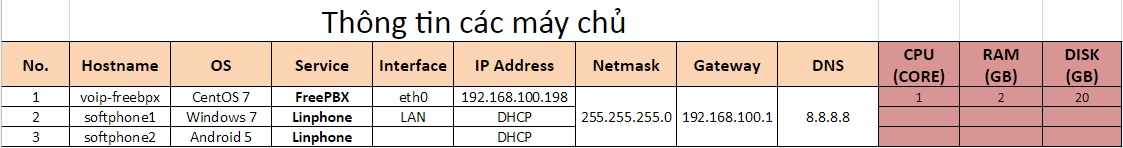
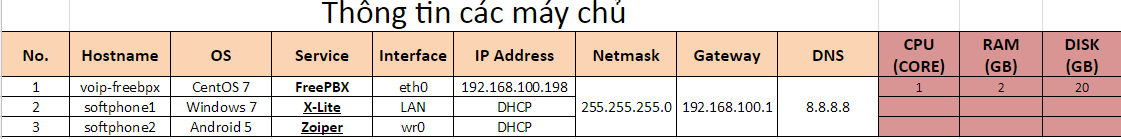
upate mô hình + ipplanning

diff --git a/docs/1.Cai-dat-tren-CentOS-7.md b/docs/1.Cai-dat-tren-CentOS-7.md
@@ -21,7 +21,7 @@
 
 <img src="../images/IPPlanning.png" >
 
-Link docs: https://goo.gl/qApSCc
+Link docs: https://goo.gl/qApSCc - Chọn Tab VoIP
 
 <a name="2" />
 
